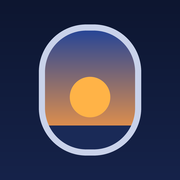
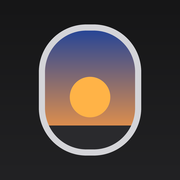
Add clue letter, square tiles and black-grey theme

diff --git a/styles.css b/styles.css
@@ -1,14 +1,13 @@
 :root{
-  --sky:#0d1630; --sky-2:#16234a; --sky-3:#1d2c5a; --ink:#f2f4fb; --muted:#9aa6c7;
-  --frame:#33426f; --key:#34436f; --absent:#212c50;
+  --sky:#161617; --sky-2:#1e1e20; --sky-3:#27272a; --ink:#f4f4f5; --muted:#a1a1a6;
+  --frame:#3f3f44; --key:#5c5c61; --absent:#333336;
   --sun:#ffb347; --sun-ink:#2b1a00; --blue:#58c4ff; --bad:#ff7a7a;
 }
 *{box-sizing:border-box;-webkit-tap-highlight-color:transparent}
 [hidden]{display:none!important}
 html,body{height:100%;margin:0}
 body{
-  background:linear-gradient(180deg,var(--sky),var(--sky-2));
-  background-color:var(--sky);color:var(--ink);
+  background:var(--sky);color:var(--ink);
   font-family:-apple-system,BlinkMacSystemFont,"SF Pro Rounded","Segoe UI",Roboto,sans-serif;
   overflow:hidden;overscroll-behavior:none;
   -webkit-user-select:none;user-select:none;touch-action:manipulation;
@@ -26,7 +25,7 @@ main{position:absolute;inset:0;display:flex;flex-direction:column;
 .group{font-size:13px;font-weight:600;color:var(--muted);margin:20px 4px 8px}
 .cards{display:grid;grid-template-columns:1fr 1fr;gap:8px}
 .card{
-  text-align:left;background:var(--sky-3);border:1px solid var(--frame);border-radius:14px;
+  text-align:left;background:var(--sky-3);border:1px solid var(--frame);border-radius:6px;
   padding:12px;min-height:84px;cursor:pointer;display:flex;flex-direction:column;gap:4px;
 }
 .card b{font-size:16px}
@@ -51,20 +50,20 @@ h1#title{font-size:17px;font-weight:700;margin:0;flex:1;text-align:center;white-
 .bar-top{display:flex;justify-content:space-between;align-items:center;gap:8px;font-size:15px;color:var(--muted);min-height:26px;padding:0 6px;flex:none;font-variant-numeric:tabular-nums}
 .bar-top b{color:var(--ink);font-size:18px}
 .line{
-  flex:none;height:46px;border-radius:12px;background:var(--sky-3);display:grid;place-items:center;
+  flex:none;height:46px;border-radius:4px;background:var(--sky-3);display:grid;place-items:center;
   font-size:22px;font-weight:700;letter-spacing:.14em;text-transform:uppercase;
 }
 .prompt{text-align:center;color:var(--muted);font-size:15px;margin:0;flex:none}
 .row-btns{display:flex;gap:8px;flex:none}
 .btn{
-  flex:1;height:44px;border-radius:10px;border:1px solid var(--frame);background:var(--sky-3);
+  flex:1;height:44px;border-radius:4px;border:1px solid var(--frame);background:var(--sky-3);
   font-size:15px;font-weight:600;cursor:pointer;padding:0 6px;
 }
 .btn.on{background:var(--sun);border-color:var(--sun);color:var(--sun-ink)}
 .btn:active{filter:brightness(1.3)}
 .chips{display:flex;flex-wrap:wrap;gap:6px;align-content:flex-start}
 .chip{background:var(--sky-3);border-radius:999px;padding:3px 10px;font-size:14px;text-transform:capitalize}
-.chip.done{background:var(--absent);color:#6e7ba1;text-decoration:line-through}
+.chip.done{background:var(--absent);color:#7a7a7f;text-decoration:line-through}
 
 /* Tiles */
 .board{
@@ -77,7 +76,7 @@ h1#title{font-size:17px;font-weight:700;margin:0;flex:1;text-align:center;white-
 @keyframes shake{20%,60%{transform:translateX(-6px)}40%,80%{transform:translateX(6px)}}
 .tile{
   display:grid;place-items:center;font-weight:700;text-transform:uppercase;min-width:0;
-  border-radius:42%/36%;border:2px solid var(--frame);background:rgba(255,255,255,.03);color:var(--ink);
+  border-radius:0;border:2px solid var(--frame);background:rgba(255,255,255,.03);color:var(--ink);
 }
 .tile.filled{border-color:var(--muted)}
 .tile.correct{background:var(--sun);border-color:var(--sun);color:var(--sun-ink)}
@@ -89,9 +88,9 @@ h1#title{font-size:17px;font-weight:700;margin:0;flex:1;text-align:center;white-
   0%{transform:rotateX(0)}50%{transform:rotateX(90deg)}100%{transform:rotateX(0)}
 }
 .minis{display:grid;gap:8px;grid-template-columns:repeat(var(--cols),1fr);align-items:start;padding:2px}
-.mini{container-type:inline-size;display:grid;gap:2px;background:var(--sky-3);border-radius:8px;padding:4px}
+.mini{container-type:inline-size;display:grid;gap:2px;background:var(--sky-3);border-radius:4px;padding:4px}
 .mini .t-row{gap:2px}
-.mini .tile{aspect-ratio:1;font-size:13cqw;border-width:1px;border-radius:30%}
+.mini .tile{aspect-ratio:1;font-size:13cqw;border-width:1px;border-radius:0}
 .mini .tile.present{border-width:2px}
 .mini.solved{opacity:.55}
 
@@ -101,7 +100,7 @@ h1#title{font-size:17px;font-weight:700;margin:0;flex:1;text-align:center;white-
 .key-row{flex:1;display:flex;gap:5px;justify-content:center;min-height:0}
 .spacer{flex:.5}
 .key{
-  flex:1;min-width:0;border:0;border-radius:8px;background:var(--key);color:var(--ink);
+  flex:1;min-width:0;border:0;border-radius:4px;background:var(--key);color:var(--ink);
   font-size:17px;font-weight:600;line-height:1;text-transform:uppercase;cursor:pointer;padding:0;
 }
 .key:active{filter:brightness(1.3)}
@@ -109,28 +108,28 @@ h1#title{font-size:17px;font-weight:700;margin:0;flex:1;text-align:center;white-
 .key.delete{font-size:20px}
 .key.correct{background:var(--sun);color:var(--sun-ink)}
 .key.present{background:var(--sky-2);box-shadow:inset 0 0 0 2px var(--blue);color:var(--blue)}
-.key.absent{background:var(--absent);color:#5f6c92}
+.key.absent{background:var(--absent);color:#8a8a8f}
 
 /* Grids */
 .grid{
   --cell:calc(100% / var(--n));
   width:min(100cqw,100cqh);aspect-ratio:1;display:grid;touch-action:none;
   grid-template-columns:repeat(var(--n),1fr);grid-template-rows:repeat(var(--n),1fr);
-  gap:1px;background:var(--frame);border:2px solid var(--frame);border-radius:8px;overflow:hidden;
+  gap:1px;background:var(--frame);border:2px solid var(--frame);border-radius:2px;overflow:hidden;
   position:relative;font-size:min(calc(100cqw/var(--n)*.55),calc(100cqh/var(--n)*.55));
 }
 .cell{background:var(--sky);display:grid;place-items:center;font-weight:600;min-width:0;min-height:0;cursor:pointer;line-height:1}
 .cell.given{background:var(--sky-3);font-weight:700}
 .cell.sel{box-shadow:inset 0 0 0 2px var(--sun)}
-.cell.peer{background:#17254d}
+.cell.peer{background:#232326}
 .cell.bad{color:var(--bad)}
 .grid .cell.bad[style]{color:#fff;text-shadow:0 0 6px #e00000}
 .cell.hit{background:var(--sun);color:var(--sun-ink)}
-.cell.found{background:#3a5a8c}
+.cell.found{background:#55555a}
 .cell.b-r{box-shadow:inset -2px 0 0 var(--muted)}
 .cell.b-b{box-shadow:inset 0 -2px 0 var(--muted)}
 .cell.b-r.b-b{box-shadow:inset -2px -2px 0 var(--muted)}
-.cell.open{background:#28366a}
+.cell.open{background:#3a3a3e}
 .cell.mine{background:var(--bad)}
 .cell.fill{background:var(--blue)}
 .cell.x{color:var(--muted)}
@@ -146,7 +145,7 @@ h1#title{font-size:17px;font-weight:700;margin:0;flex:1;text-align:center;white-
 .nono .cell.m-b{border-bottom:1.5px solid var(--muted)}
 .nono .clue{font-size:11px;color:var(--muted);display:flex;gap:3px;align-items:center;justify-content:flex-end;padding:0 3px;font-variant-numeric:tabular-nums}
 .nono .clue.col{flex-direction:column;justify-content:flex-end;gap:0;padding:2px 0;line-height:1.15}
-canvas{display:block;background:var(--sky);border:2px solid var(--frame);border-radius:8px;touch-action:none;width:min(100cqw,100cqh);height:min(100cqw,100cqh)}
+canvas{display:block;background:var(--sky);border:2px solid var(--frame);border-radius:2px;touch-action:none;width:min(100cqw,100cqh);height:min(100cqw,100cqh)}
 
 /* Letter ring */
 .ring{position:relative;width:min(80cqw,80cqh);aspect-ratio:1}
@@ -177,7 +176,7 @@ canvas{display:block;background:var(--sky);border:2px solid var(--frame);border-
 .quiz-q{font-size:22px;font-weight:700;text-align:center;margin:0}
 .flag{font-size:96px;line-height:1.1;text-align:center}
 .options{display:grid;gap:8px;width:100%;flex:none}
-.option{min-height:52px;border-radius:12px;border:1px solid var(--frame);background:var(--sky-3);font-size:17px;font-weight:600;cursor:pointer;padding:6px 12px}
+.option{min-height:52px;border-radius:6px;border:1px solid var(--frame);background:var(--sky-3);font-size:17px;font-weight:600;cursor:pointer;padding:6px 12px}
 .option.right{background:var(--sun);border-color:var(--sun);color:var(--sun-ink)}
 .option.wrong{background:var(--bad);border-color:var(--bad);color:#3a0505}
 
@@ -190,22 +189,22 @@ canvas{display:block;background:var(--sky);border:2px solid var(--frame);border-
 .toast.show{opacity:1}
 .result{
   position:absolute;left:0;right:0;bottom:0;z-index:10;background:var(--sky-2);border-top:1px solid var(--frame);
-  border-radius:20px 20px 0 0;display:flex;flex-direction:column;align-items:center;gap:6px;text-align:center;
+  border-radius:8px 8px 0 0;display:flex;flex-direction:column;align-items:center;gap:6px;text-align:center;
   padding:16px 16px max(16px,env(safe-area-inset-bottom));
 }
 .result p{margin:0}
 .result-title{font-size:15px;color:var(--muted)}
 .result .result-word{font-size:22px;font-weight:700;letter-spacing:.06em;margin-bottom:6px;text-transform:capitalize}
 .primary{
-  border:0;border-radius:12px;background:var(--sun);color:var(--sun-ink);
+  border:0;border-radius:4px;background:var(--sun);color:var(--sun-ink);
   font-size:17px;font-weight:700;line-height:1;height:50px;padding:0 32px;cursor:pointer;width:100%;max-width:300px;
 }
 
 dialog{
-  width:min(92vw,400px);border:1px solid var(--frame);border-radius:20px;
+  width:min(92vw,400px);border:1px solid var(--frame);border-radius:8px;
   background:var(--sky-2);color:var(--ink);padding:20px;font-size:16px;line-height:1.45;
 }
-dialog::backdrop{background:rgba(5,9,22,.7)}
+dialog::backdrop{background:rgba(0,0,0,.7)}
 dialog h2{margin:0 0 8px;font-size:20px}
 dialog p{margin:0 0 10px}
 dialog form{display:flex;justify-content:center;margin-top:16px}
@@ -222,15 +221,15 @@ dialog form{display:flex;justify-content:center;margin-top:16px}
 /* Chess */
 .grid.chessboard{gap:0;font-size:min(calc(100cqw/8*.8),calc(100cqh/8*.8))}
 .chessboard .cell{line-height:1;font-family:"Apple Symbols","Segoe UI Symbol",sans-serif;font-weight:400}
-.cell.lt{background:#9fb1d8}
-.cell.dk{background:#56699a}
+.cell.lt{background:#a9a9ad}
+.cell.dk{background:#66666b}
 .cell.last{background:#c9a35a}
 .cell.tgt{box-shadow:inset 0 0 0 3px var(--blue)}
-.cell.wp{color:#fff;-webkit-text-stroke:.6px #0d1630}
-.cell.bp{color:#0d1630}
+.cell.wp{color:#fff;-webkit-text-stroke:.6px #161617}
+.cell.bp{color:#0c0c0d}
 .move-log{flex:none;height:clamp(60px,14dvh,118px);overflow-y:auto;display:flex;flex-direction:column;gap:3px}
 .mv-row{display:flex;gap:4px}
-.mv{flex:1;text-align:center;font-size:13px;font-weight:600;padding:2px 0;border-radius:6px;background:var(--absent);color:var(--muted);border:1.5px solid transparent;min-width:0}
+.mv{flex:1;text-align:center;font-size:13px;font-weight:600;padding:2px 0;border-radius:2px;background:var(--absent);color:var(--muted);border:1.5px solid transparent;min-width:0}
 .mv.open{background:transparent;border-color:var(--frame);color:var(--ink)}
 .mv.correct{background:var(--sun);color:var(--sun-ink)}
 .mv.present{background:transparent;border-color:var(--blue);color:var(--blue)}
@@ -257,3 +256,10 @@ canvas.globe{background:none;border:0;touch-action:none;border-radius:50%;cursor
 }
 .star.on,.icon-btn.fav.on{color:var(--sun)}
 .fav-hint{color:var(--muted);font-size:14px;margin:12px 4px 0}
+
+/* Clue letter */
+.icon-btn.used{color:var(--sun)}
+.key.hint{background:var(--sky-3);box-shadow:inset 0 0 0 2px var(--ink)}
+.grid.mines .cell{background:#4c4c51}
+.grid.mines .cell.open{background:#1f1f21}
+.grid.mines .cell.mine{background:var(--bad)}

diff --git a/modes-guess.js b/modes-guess.js
@@ -17,6 +17,7 @@ function score(guess, answer) {
 const CLUE_HELP = [
   'After each guess the windows show how close you were.',
   'Orange: right letter, right spot. Blue ring: in the word, wrong spot. Dim: not in the word.',
+  'Stuck? Tap the bulb once per round to reveal a letter you haven’t tried yet. It stays outlined on the keyboard.',
 ];
 
 function guessGame(ctx, o) {
@@ -54,6 +55,27 @@ function guessGame(ctx, o) {
   };
   ctx.keys = press;
   const kb = keyboard(ctx.root, press, o.layout, o.layout ? 'num' : '');
+
+  /* One clue per round: a character from an unsolved answer that no guess has used. */
+  const clueText = c => {
+    const shown = c.toUpperCase();
+    if (n > 1) return `${shown} is in an unsolved word`;
+    return `The ${o.layout ? 'sum' : 'word'} has ${shown}`;
+  };
+  function giveClue() {
+    if (ctx.ended || busy) return;
+    if (s.clue) return toast(clueText(s.clue));
+    const tried = new Set(s.guesses.join(''));
+    const unsolved = s.answers.filter((_, i) => solvedAt(i) === Infinity);
+    const left = [...new Set(unsolved.join(''))].filter(c => !tried.has(c));
+    if (!left.length) return toast('You’ve tried every letter in it');
+    s.clue = pick(left);
+    if (!o.speed) ctx.save(s);
+    paintKeys();
+    toast(clueText(s.clue));
+  }
+  ctx.clue = giveClue;
+  $('clueBtn').hidden = false;
 
   function tileRow(guess, answer, typing, flip) {
     const row = el('div', 't-row');
@@ -105,7 +127,9 @@ function guessGame(ctx, o) {
         });
       }
     });
+    if (s.clue && !seen[s.clue]) seen[s.clue] = 'hint';
     kb.paint(seen);
+    $('clueBtn').classList.toggle('used', !!s.clue);
   }
 
   function shake() {
@@ -263,7 +287,8 @@ function newEquation() {
 reg({
   id: 'equation', group: 'Colour clues', name: 'Equation', blurb: 'Crack the hidden 8-character sum',
   help: ['Find the hidden sum in six guesses, for example 12+35=47. Every guess must be a true sum.',
-    'Orange: right spot. Blue ring: in the sum, wrong spot. Dim: not in the sum. * means times and / means divide, and they happen before + and -.'],
+    'Orange: right spot. Blue ring: in the sum, wrong spot. Dim: not in the sum. * means times and / means divide, and they happen before + and -.',
+    'Stuck? Tap the bulb once per round to reveal a character you haven’t tried yet.'],
   run: ctx => guessGame(ctx, {
     len: 8, tries: 6, chars: /^[0-9+\-*/=]$/, check: checkEquation,
     layout: ['12345', '67890', '+-*/=', '><'], answers: () => [newEquation()],

diff --git a/index.html b/index.html
@@ -4,7 +4,7 @@
 <meta charset="utf-8">
 <title>Layover</title>
 <meta name="viewport" content="width=device-width, initial-scale=1, viewport-fit=cover">
-<meta name="theme-color" content="#0d1630">
+<meta name="theme-color" content="#161617">
 <meta name="description" content="An offline word and puzzle arcade for long flights.">
 <meta name="apple-mobile-web-app-capable" content="yes">
 <meta name="mobile-web-app-capable" content="yes">
@@ -23,6 +23,7 @@
       <button class="icon-btn" id="backBtn" aria-label="Back to all games">‹</button>
       <h1 id="title"></h1>
       <div class="head-right">
+        <button class="icon-btn small" id="clueBtn" aria-label="Get a clue letter" hidden><svg viewBox="0 0 24 24" width="20" height="20" aria-hidden="true"><path fill="currentColor" d="M9 21h6v1.5H9zM12 2a7 7 0 0 0-4 12.7V17a1 1 0 0 0 1 1h6a1 1 0 0 0 1-1v-2.3A7 7 0 0 0 12 2z"/></svg></button>
         <button class="icon-btn small fav" id="favBtn" aria-label="Bookmark this game"></button>
         <button class="icon-btn small" id="helpBtn" aria-label="How to play">?</button>
         <button class="icon-btn small" id="statsBtn" aria-label="Statistics">

diff --git a/modes-logic.js b/modes-logic.js
@@ -122,6 +122,7 @@ reg({
     ctx.root.append(top);
     const { grid, cells } = makeGrid(ctx.root, n);
     const [modeBtn] = newBtns(ctx.root, 'Mode: Open');
+    grid.classList.add('mines');
     const nbrs = i => {
       const r = Math.floor(i / n), c = i % n, out = [];
       for (let a = r - 1; a <= r + 1; a++) {
@@ -639,10 +640,10 @@ reg({
     const { grid, cells } = makeGrid(ctx.root, n, (d, r, c) => {
       const here = s.region[r * n + c];
       d.style.background = COLOURS[here];
-      d.style.color = '#0d1630';
+      d.style.color = '#161617';
       const edge = [];
-      if (c < n - 1 && s.region[r * n + c + 1] !== here) edge.push('inset -2px 0 0 #0d1630');
-      if (r < n - 1 && s.region[(r + 1) * n + c] !== here) edge.push('inset 0 -2px 0 #0d1630');
+      if (c < n - 1 && s.region[r * n + c + 1] !== here) edge.push('inset -2px 0 0 #161617');
+      if (r < n - 1 && s.region[(r + 1) * n + c] !== here) edge.push('inset 0 -2px 0 #161617');
       d.style.boxShadow = edge.join(',');
     });
     const flat = cells.flat();

diff --git a/core.js b/core.js
@@ -103,7 +103,7 @@ function keyboard(parent, press, layout = QWERTY, cls = '') {
   return {
     paint(map) {
       kb.querySelectorAll('.key').forEach(k => {
-        k.classList.remove('correct', 'present', 'absent');
+        k.classList.remove('correct', 'present', 'absent', 'hint');
         if (map[k.dataset.key]) k.classList.add(map[k.dataset.key]);
       });
     },
@@ -208,6 +208,7 @@ function record(id, o) {
 function leave() {
   if (!ctxNow) return;
   ctxNow.stop();
+  $('toast').classList.remove('show');
   ctxNow = null;
 }
 
@@ -247,6 +248,8 @@ function openMode(id, fresh) {
   $('screen').hidden = false;
   $('title').textContent = m.name;
   paintFav(id);
+  $('clueBtn').hidden = true;
+  $('clueBtn').classList.remove('used');
   m.run(ctx);
   if (!store.get('layover.seen.' + id, false)) {
     store.set('layover.seen.' + id, true);

diff --git a/modes-globe.js b/modes-globe.js
@@ -97,11 +97,11 @@ function drawGlobe(g, size, view, colours) {
   g.save();
   g.beginPath();
   g.arc(cx, cy, R, 0, Math.PI * 2);
-  g.fillStyle = '#101d44';
+  g.fillStyle = '#1c1c1f';
   g.fill();
   g.clip();
 
-  g.strokeStyle = 'rgba(154,166,199,.14)';
+  g.strokeStyle = 'rgba(200,200,205,.12)';
   g.lineWidth = 1;
   for (let lon = -180; lon < 180; lon += 30) {
     g.beginPath();
@@ -126,9 +126,9 @@ function drawGlobe(g, size, view, colours) {
       g.closePath();
     }
     if (!any) continue;
-    g.fillStyle = colours[c.name] || '#34436f';
+    g.fillStyle = colours[c.name] || '#4a4a4f';
     g.fill('evenodd');
-    g.strokeStyle = 'rgba(13,22,48,.75)';
+    g.strokeStyle = 'rgba(22,22,23,.75)';
     g.lineWidth = 1;
     g.stroke();
   }

diff --git a/sw.js b/sw.js
@@ -1,4 +1,4 @@
-const CACHE = 'layover-v4';
+const CACHE = 'layover-v5';
 const FILES = ['./', 'index.html', 'styles.css', 'words.js', 'world.js', 'core.js', 'modes-guess.js',
   'modes-word.js', 'modes-logic.js', 'modes-fun.js', 'geo.js', 'chess-data.js', 'chess.js', 'modes-chess.js', 'modes-globe.js', 'boot.js', 'manifest.webmanifest',
   'icons/icon-180.png', 'icons/icon-192.png', 'icons/icon-512.png'];

diff --git a/boot.js b/boot.js
@@ -81,6 +81,7 @@ $('favBtn').addEventListener('click', () => {
   toast(toggleFav(id) ? 'Bookmarked' : 'Bookmark removed');
   paintFav(id);
 });
+$('clueBtn').addEventListener('click', () => { if (ctxNow && ctxNow.clue) ctxNow.clue(); });
 $('backBtn').addEventListener('click', goHome);
 $('helpBtn').addEventListener('click', showHelp);
 $('statsBtn').addEventListener('click', showStats);

diff --git a/modes-fun.js b/modes-fun.js
@@ -17,7 +17,7 @@ reg({
       do { sun = [rint(n), rint(n)]; } while (snake.some(p => p[0] === sun[0] && p[1] === sun[1]));
     };
     function draw() {
-      g.fillStyle = '#0d1630';
+      g.fillStyle = '#161617';
       g.fillRect(0, 0, px, px);
       g.fillStyle = '#ffb347';
       g.beginPath();
